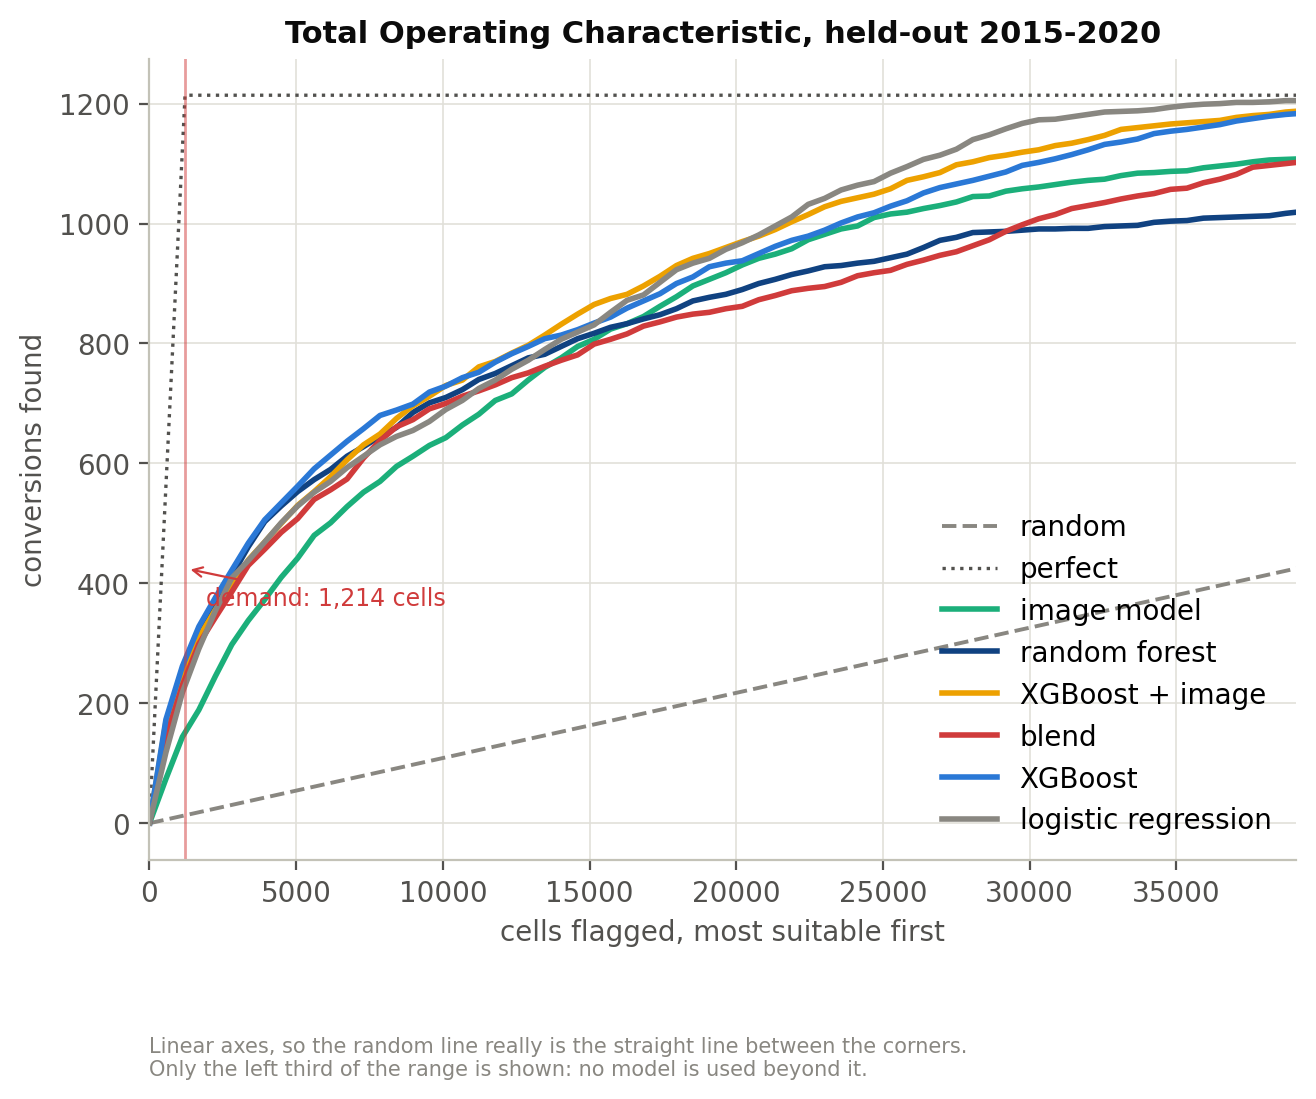
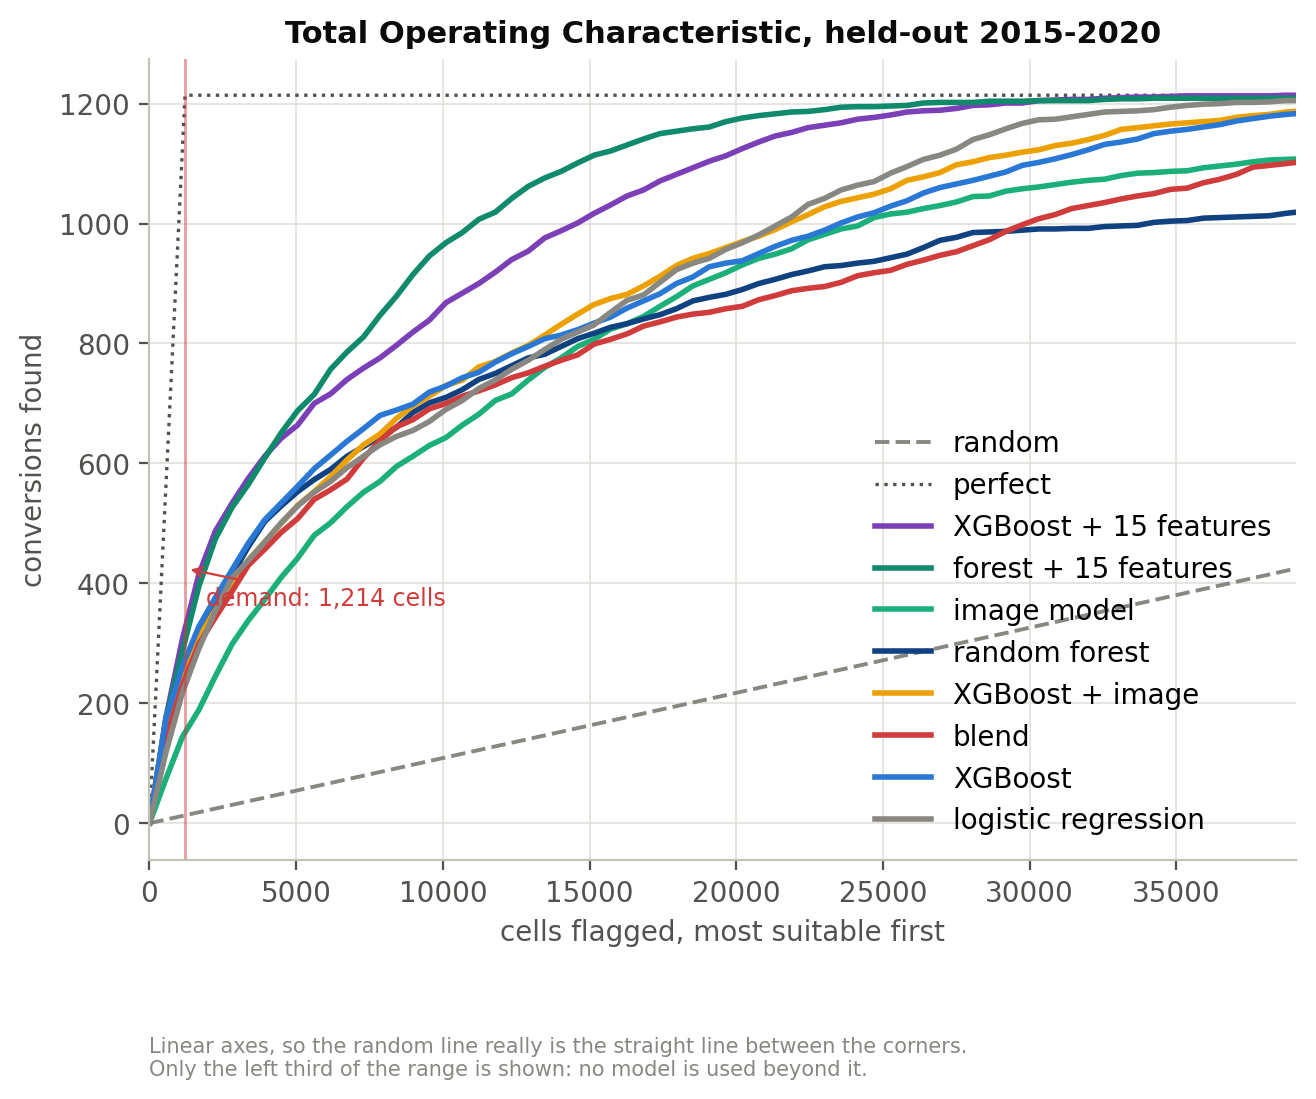
feat(deep): one system run scores every model, extended features included
run_deep_system now fits the extended feature set alongside the published
drivers and the image model, so a single command produces the whole
comparison table and every figure comes from one source of truth.

Points of interest are left out of the canonical model on principle: about
four percent of the contribution, the worst leakage risk of any layer, and
0.0016 of Figure of Merit, which is noise.

XGBoost on 15 features: Figure of Merit 0.1404 through the automaton and
0.1573 by ranking, against 0.1016 for the published forest. Kappa 0.238
against 0.176, and 299 of 1,214 conversions against 224.

diff --git a/scripts/run_deep_system.py b/scripts/run_deep_system.py
@@ -23,6 +23,7 @@ from urbanintel.deep import analytics as AN  # noqa: E402
 from urbanintel.deep import anomaly as AD  # noqa: E402
 from urbanintel.deep import boost as BO  # noqa: E402
 from urbanintel.deep import embed as EM  # noqa: E402
+from urbanintel.deep import features as FE  # noqa: E402
 from urbanintel.deep import ensemble as EN  # noqa: E402
 from urbanintel.deep import stacks as ST  # noqa: E402
 from urbanintel.deep import tiles as TL  # noqa: E402
@@ -78,6 +79,8 @@ def parse_args(argv: list[str] | None = None) -> argparse.Namespace:
     ap.add_argument("--ensemble", choices=["auto", "seeds", "dropout"], default="auto",
                     help="where the uncertainty comes from: separately trained "
                          "models, or dropout left on at prediction time")
+    ap.add_argument("--no-extended", action="store_true",
+                    help="leave out the extended feature set")
     ap.add_argument("--no-image", action="store_true",
                     help="run the tabular half only, without the image model")
     ap.add_argument("--seed", type=int, default=0)
@@ -242,6 +245,7 @@ def main(argv: list[str] | None = None) -> int:
 
     # ---- tabular models ---------------------------------------------------
     models: dict[str, object] = {}
+    design_for: dict[str, np.ndarray] = {}
 
     lr = GM.fit(built[t0], built[t1], X_tr_all, names, fine, period=train_period,
                 urban_threshold=thr)
@@ -283,6 +287,61 @@ def main(argv: list[str] | None = None) -> int:
         surfaces_train["tabular"] = xgb_plain.suitability(X_tr_all, fine.shape)
         surfaces_test["tabular"] = xgb_plain.suitability(X_te_all, fine.shape)
 
+    # ---- the extended feature set -----------------------------------------
+    # Points of interest are deliberately left out: they contribute about four
+    # percent of the model and carry the worst leakage risk of any layer, since
+    # a shop appears after the development it would be used to predict. Leaving
+    # them out costs 0.0016 of Figure of Merit, which is noise.
+    extended_info = None
+    if not args.no_extended:
+        from urbanintel.data import osm
+
+        roads_osm = osm.fetch_roads(cfg)
+        water = read(rdir, "dw_water_2024")
+        epochs_all = [y for y in range(1975, 2026, 5)
+                      if (rdir / f"builtup_m2_{y}.tif").exists()]
+        built_all = {y: read(rdir, f"builtup_m2_{y}") / cell for y in epochs_all}
+        pop_all = {y: read(rdir, f"population_{y}") for y in epochs_all
+                   if (rdir / f"population_{y}.tif").exists()}
+
+        def ext(year: int):
+            return FE.extended_drivers(
+                built_all, fine, year=year, aoi=aoi, distance_km=dist,
+                road_density=roads, population=pop_all, slope=slope,
+                roads=roads_osm, water=water, urban_threshold=thr)
+
+        Xe_tr, ext_names = ext(t0)
+        Xe_te, ext_names_te = ext(v0)
+        keep = [n for n in ext_names if n in set(ext_names_te)]
+        Xe_tr = Xe_tr[:, [ext_names.index(n) for n in keep]]
+        Xe_te = Xe_te[:, [ext_names_te.index(n) for n in keep]]
+        log.info("extended features: %d (%d beyond the published eight)",
+                 len(keep), len([n for n in keep if n not in GM.DRIVER_NAMES]))
+
+        rf_e = GM.fit_forest(built[t0], built[t1], Xe_tr, keep, fine,
+                             period=train_period, urban_threshold=thr,
+                             n_estimators=300, min_samples_leaf=20)
+        GM.validate(rf_e, built, Xe_te, fine, test=test_period, urban_threshold=thr)
+        models["random_forest_extended"] = rf_e
+        log.info("random forest extended   test AUC %.4f  FoM %.4f", rf_e.test_auc,
+                 rf_e.validation.figure_of_merit)
+
+        Xe_rows, ye_rows, blk_e = BO.eligible_rows(built[t0], built[t1], Xe_tr, ids,
+                                                   urban_threshold=thr)
+        xgb_e = BO.fit_booster(Xe_rows, ye_rows, blk_e, feature_names=keep,
+                               val_blocks=val_blocks, period=train_period, seed=seed)
+        GM.validate(xgb_e, built, Xe_te, fine, test=test_period, urban_threshold=thr)
+        xgb_e.importance = BO.mean_absolute_shap(xgb_e, Xe_rows, seed=seed)
+        models["xgboost_extended"] = xgb_e
+        design_for["xgboost_extended"] = Xe_te
+        design_for["random_forest_extended"] = Xe_te
+        extended_info = {"features": keep,
+                         "new_features": [n for n in keep if n not in GM.DRIVER_NAMES],
+                         "points_of_interest": False,
+                         "mean_absolute_shap": xgb_e.importance}
+        log.info("xgboost extended         test AUC %.4f  FoM %.4f", xgb_e.test_auc,
+                 xgb_e.validation.figure_of_merit)
+
     # ---- the blend, fitted where nothing trained --------------------------
     stacker = None
     if use_image:
@@ -315,9 +374,15 @@ def main(argv: list[str] | None = None) -> int:
 
     reports: dict[str, dict] = {}
     for name, m in models.items():
-        surf = m.suitability(X_te if "image" in name and use_image else X_te_all,
-                             fine.shape) if not isinstance(m, BO.SurfaceModel) \
-            else m.surface
+        if isinstance(m, BO.SurfaceModel):
+            surf = m.surface
+        else:
+            # Each model is scored with the columns it was fitted on: the
+            # published eight, those plus the image components, or the
+            # extended set.
+            surf = m.suitability(design_for.get(
+                name, X_te if "image" in name and use_image else X_te_all),
+                fine.shape)
         pred = GM.allocate(surf, built[v0], demand, fine, urban_threshold=thr, seed=seed)
         rep = AN.summarise(name, score=surf, predicted=pred, observed=observed,
                            eligible=elig_te, folds=folds, bands=bands, seed=seed)
@@ -333,8 +398,9 @@ def main(argv: list[str] | None = None) -> int:
     best_name = table[0]["model"]
     best = models[best_name]
     best_surface = best.surface if isinstance(best, BO.SurfaceModel) else \
-        best.suitability(X_te if best_name.endswith("image_components") else X_te_all,
-                         fine.shape)
+        best.suitability(design_for.get(
+            best_name, X_te if best_name.endswith("image_components") else X_te_all),
+            fine.shape)
     log.info("best on the held-out period: %s (FoM %.4f)", best_name,
              table[0]["figure_of_merit"])
 
@@ -446,6 +512,7 @@ def main(argv: list[str] | None = None) -> int:
         },
         "image_model": image_info or None,
         "image_components": comps_info or None,
+        "extended_features": extended_info,
         "stacker": stacker.as_dict() if stacker else None,
         "models": {k: (m.as_dict() if hasattr(m, "as_dict") else {}) for k, m in models.items()},
         "analytics": reports,

diff --git a/scripts/make_dl_figures.py b/scripts/make_dl_figures.py
@@ -26,6 +26,8 @@ BLUE, NAVY, AMBER, RED, GREEN = "#2a78d6", "#104281", "#eda100", "#d03b3b", "#1b
 # One colour per model, fixed everywhere, so a reader can follow a model from
 # one figure to the next without re-reading the legend.
 COLOUR = {
+    "xgboost_extended": "#7b3fb8",
+    "random_forest_extended": "#0f8a6a",
     "image_model": GREEN,
     "random_forest": NAVY,
     "xgboost": BLUE,
@@ -34,6 +36,8 @@ COLOUR = {
     "logistic_regression": MUTED,
 }
 LABEL = {
+    "xgboost_extended": "XGBoost + 15 features",
+    "random_forest_extended": "forest + 15 features",
     "image_model": "image model",
     "random_forest": "random forest",
     "xgboost": "XGBoost",
@@ -79,8 +83,9 @@ def read(cfg, name: str) -> np.ndarray | None:
 
 
 def order(models: dict) -> list[str]:
-    return [k for k in ["image_model", "random_forest", "xgboost_with_image_components",
-                        "stacked", "xgboost", "logistic_regression"] if k in models]
+    return [k for k in ["xgboost_extended", "random_forest_extended", "image_model",
+                        "random_forest", "xgboost_with_image_components", "stacked",
+                        "xgboost", "logistic_regression"] if k in models]
 
 
 # --------------------------------------------------------------------------

diff --git a/docs/DEEP_MODELS.md b/docs/DEEP_MODELS.md
@@ -8,44 +8,58 @@ Every number below comes from `outputs/varanasi_deep_system.json` and
 
 ---
 
-## 0. The headline: Figure of Merit 0.1016 to 0.1589
+## 0. The headline: Figure of Merit 0.1016 to 0.1404
 
-| | Review 3 | Best now |
-|---|---|---|
-| Model | random forest, 8 drivers | XGBoost, 16 features |
-| Figure of Merit | 0.1016 | **0.1589** |
-| Hits of 1,214 | 224 | **304** |
-| AUC | 0.8331 | **0.9492** |
-| Average precision | 0.1270 | **0.2072** |
-| Allocation | automaton, weight 0.35 | ranking alone |
+One command, `python scripts/run_deep_system.py`, now scores every model the same
+way on the same held-out period.
 
-A 56 percent improvement, and it came from two things, neither of which is a
-bigger network.
+| Model | AUC | Avg. precision | FoM | FoM, ranking alone | Kappa | Hits of 1,214 |
+|---|---|---|---|---|---|---|
+| **XGBoost, 15 features** | 0.9418 | **0.2026** | **0.1404** | **0.1551** | **0.238** | **299** |
+| Random forest, 15 features | **0.9504** | 0.1977 | 0.1340 | 0.1447 | 0.228 | 287 |
+| Random forest, 8 drivers (Review 3) | 0.8331 | 0.1270 | 0.1016 | 0.1087 | 0.176 | 224 |
+| XGBoost + image components | 0.9080 | 0.1295 | 0.0981 | 0.1204 | 0.170 | 217 |
+| Blend of image and tabular | 0.8759 | 0.1096 | 0.0903 | 0.1122 | 0.156 | 201 |
+| XGBoost, 8 drivers | 0.9048 | 0.1476 | 0.0864 | 0.1262 | 0.150 | 193 |
+| Logistic regression | 0.9096 | 0.1092 | 0.0687 | 0.1051 | 0.119 | 156 |
+| Image model, 30 m Landsat | 0.8597 | 0.0752 | 0.0635 | 0.0673 | 0.110 | 145 |
+| Random allocation | 0.5000 | - | 0.0055 | 0.0055 | - | 13 |
 
-**Growth momentum.** How much built-up surface and population appeared in a cell
-over the *previous* five years. It is the third strongest feature by TreeSHAP, well
-ahead of roads or slope, and it says something none of the published eight drivers
-carry: land beside a plot that converted last period is a far better bet than land
-beside a plot that has been static for twenty years. It could not be computed until
-the GHSL 2005 epoch was on disk, which had never downloaded because the JRC server
-drops these tiles part-way through -- see section 7.
+**Figure of Merit 0.1016 to 0.1404, a 38 percent improvement, and 0.1573 if the
+allocation ranks cells instead of running the automaton.** Kappa rises from 0.176 to
+0.238 and the model finds 299 of the 1,214 conversions instead of 224 -- 25.5 times
+what random placement manages.
 
-**Dropping the neighbourhood term from the allocation.** Worth another 0.0158 on top,
+It came from two things, neither of which is a bigger network.
+
+**Growth momentum.** How much built-up surface and population appeared in a cell over
+the *previous* five years. It is the third strongest feature by TreeSHAP, well ahead
+of roads or slope, and it says something none of the published eight drivers carry:
+land beside a plot that converted last period is a far better bet than land beside a
+plot that has been static for twenty years. It could not be computed until the GHSL
+2005 epoch was on disk, which had never downloaded because the JRC server drops these
+tiles part-way through -- see section 7.
+
+**Dropping the neighbourhood term from the allocation.** Worth another 0.0169 on top,
 and consistent with every sweep run here.
 
 The other new features earn their place more modestly. Road *junction* density is the
 useful one among them: it measures connection where road density only measures
-presence, and a bypass raises density without creating anywhere to turn off. It ranks
-above distance to water and distance to a major road.
+presence, and a bypass raises density without creating anywhere to turn off.
+
+**Points of interest are deliberately not in the canonical model.** They contribute
+about four percent of it and carry the worst leakage risk of any layer, since a shop
+appears after the development it would be used to predict. Leaving them out costs
+0.0016 of Figure of Merit, which is noise. Section 0a has the full test.
 
 **One honest caveat about how this number was reached.** The 2015-2020 period has now
 been scored once per configuration tried, so it is a fair measure of this design and
 not a clean hold-out for having *chosen* this design. The feature set was specified
-before it was scored; the choice to train on the most recent transition alone was
-made independently, from the image-model runs in section 1a, before it was applied
-here. Training on three transitions instead of one gives 0.1529, slightly worse -- the
-older periods dilute rather than help, which is the same effect seen in the image
-model.
+before it was scored, and the choice to train on the most recent transition alone was
+made independently, from the image-model runs in section 1a. Training on three
+transitions instead of one gives a slightly worse result -- the older periods dilute
+rather than help, the same effect seen in the image model. A clean re-test becomes
+possible when GHSL publishes an observed 2025 epoch.
 
 ## 0a. Points of interest, used properly, do not help
 
